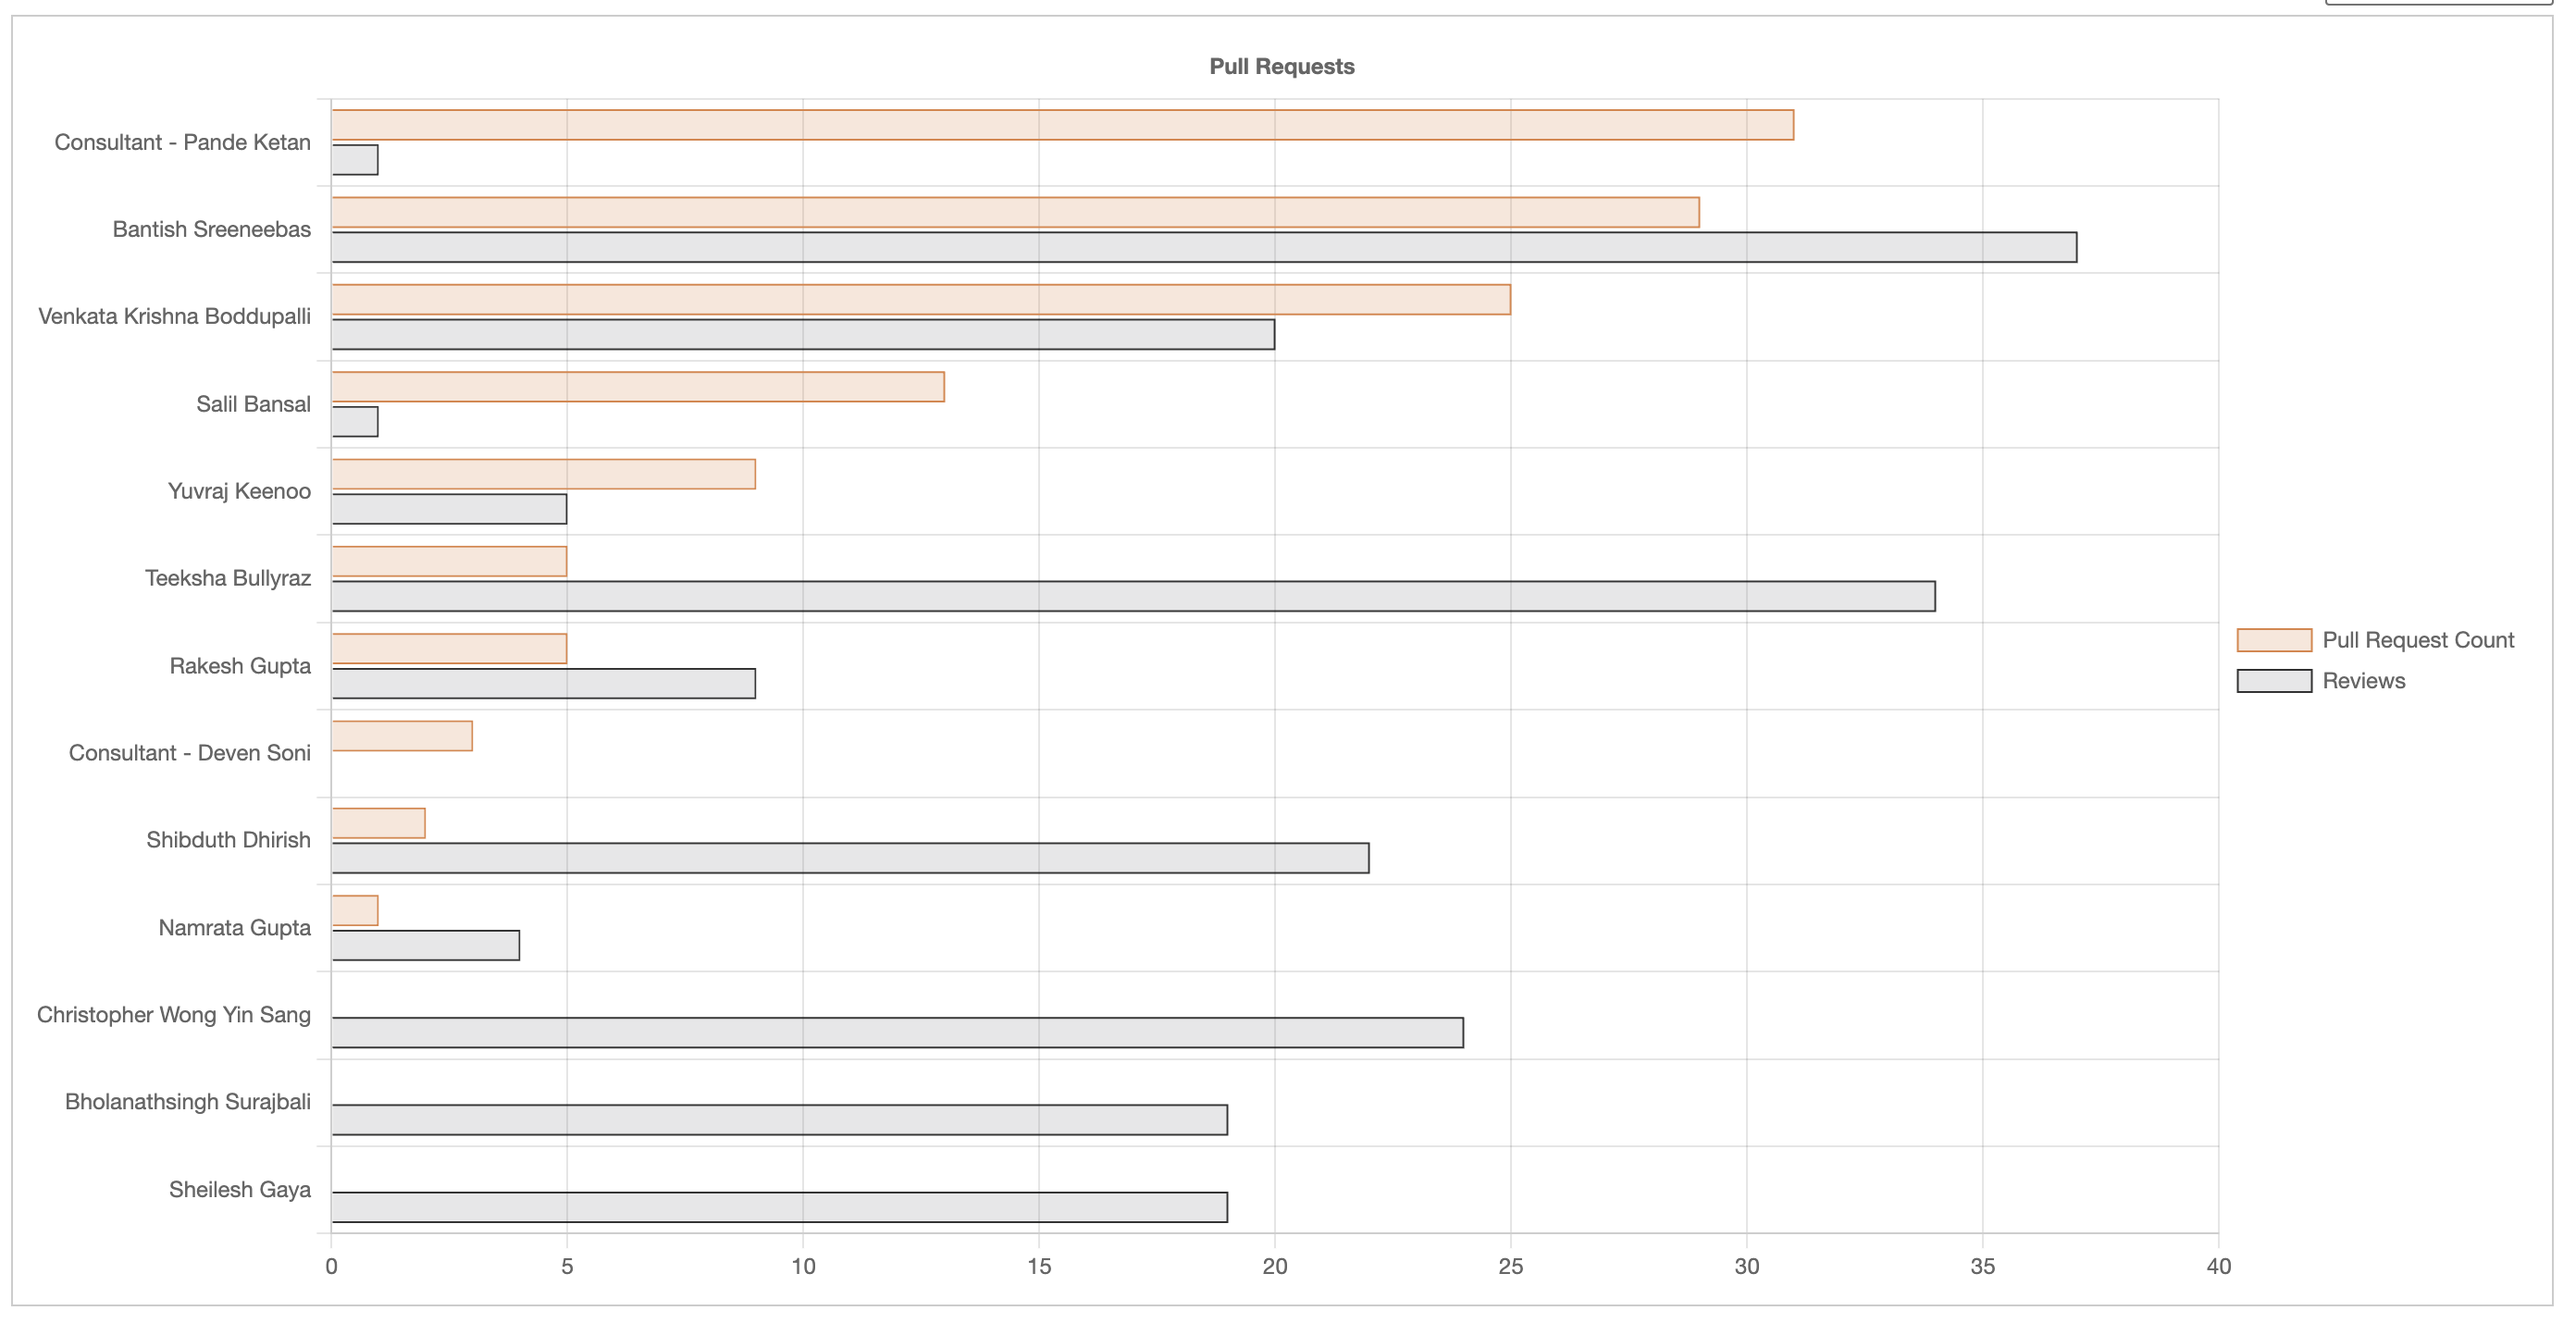
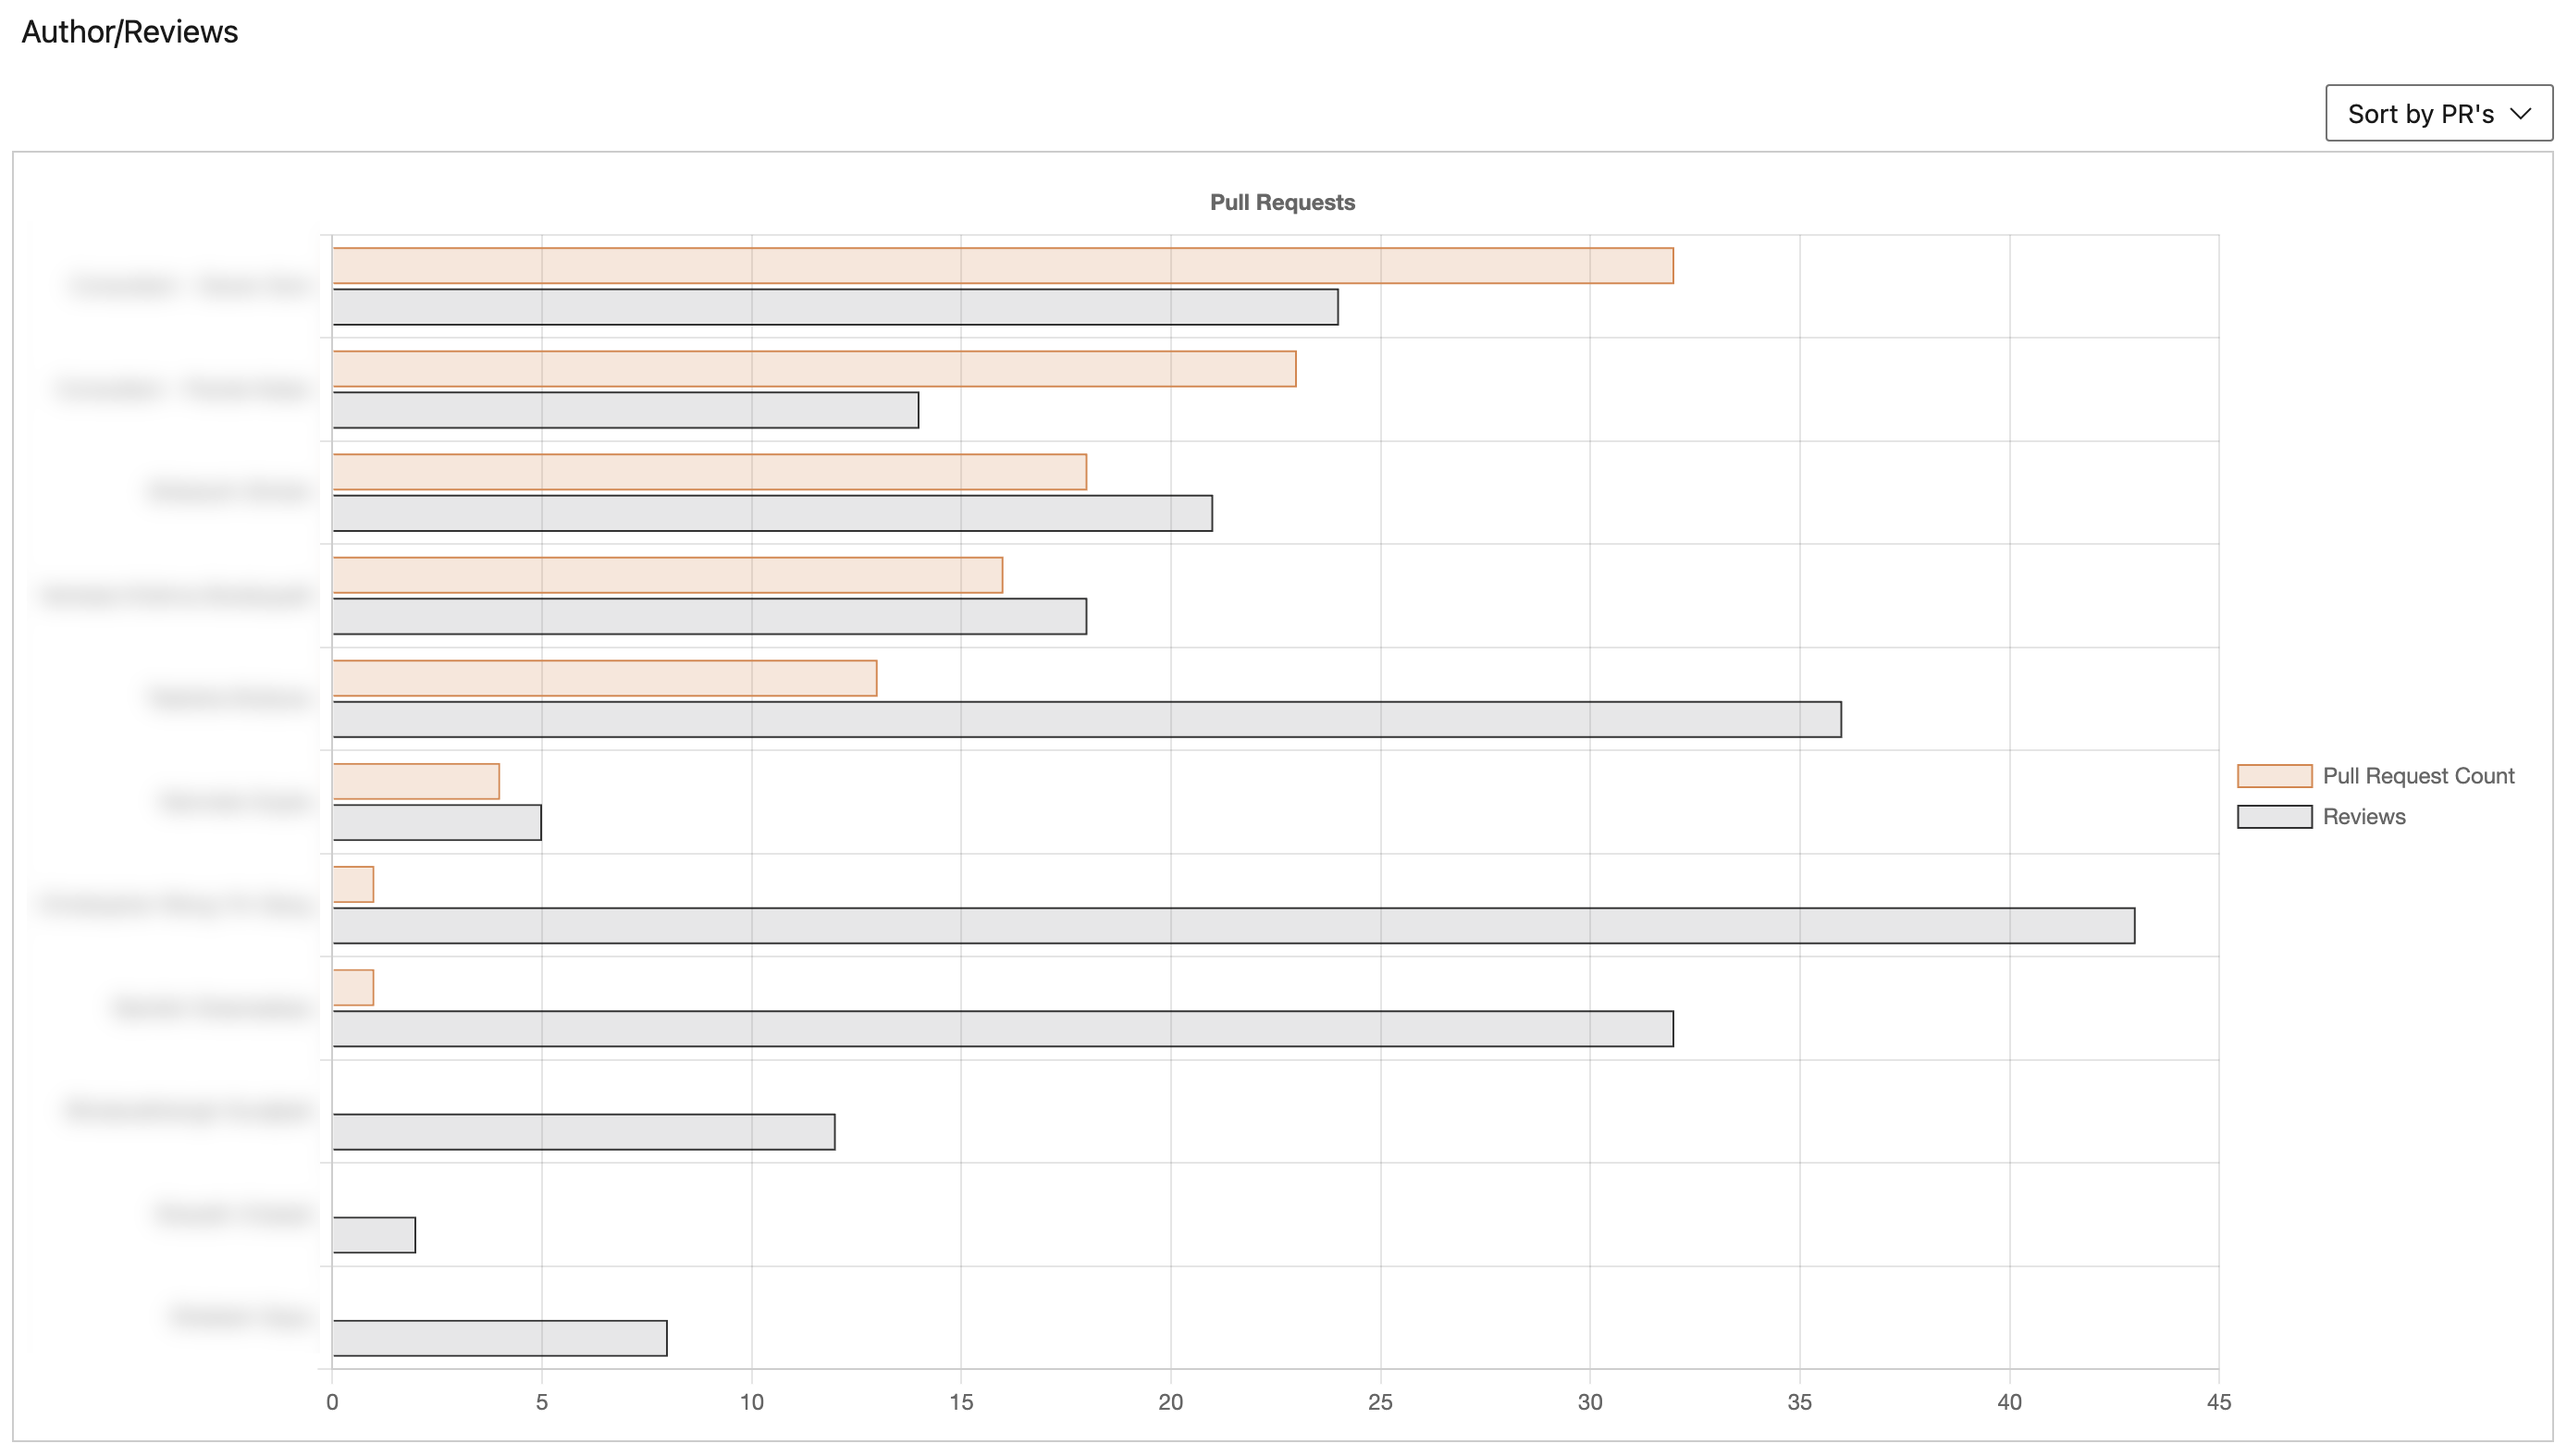
PR stats

diff --git a/source/_drafts/pr-analysis.md b/source/_drafts/pr-analysis.md
@@ -1,6 +1,13 @@
 ---
 title: Optimizing Pull Request Effectiveness- A Metrics-Driven Approach
 tags:
+- metrics
+- devops
+category: Software Engineering
+ogimage: pr3.png
+date: 2022-05-01
+excerpt:
+    A discussion on how to evaluate the effectiveness of your Pull Request process using simple metrics.
 ---
 
 > Disclaimer: In this post I will be talking about metrics related to the Pull Request process. These metrics cannot, and should never, be used to infer anything about the quality of the underlying code or the author. Furthermore teams should avoid setting targets against any of these metrics. <a href="https://en.wikipedia.org/wiki/Goodhart%27s_law">Doing so would distort any meaning or value that could be inferred from them</a>.
@@ -8,13 +15,13 @@ tags:
 # Pull Requests
 Pull Requests are used in some teams to control the flow of code from one branch to another. Typically a developer will complete a piece of work on one branch and then create a Pull Request to merge this work into a branch which contains the shared work of the team. At this point automated checks and tests can be run and the code is reviewed by one or more members of the team. Once everyone is satisfied the code is merged.
 
-Pull Requests help to enforce the team's standards and identify issues within the code. Having multiple team members review the changes aids with collaboration and knowledge sharing. There are some short comings however. Pull Requests are a bottleneck. The author of the Pull Request needs to wait until one or more reviewers are available to have the code merged. This imposes a 'speed limit' on the team as a whole as changes cannot be released faster than the time it takes to complete the Pull Request process.
+Pull Requests help to enforce the team's standards and identify issues within the code. Having multiple team members review the changes aids with collaboration and knowledge sharing. The main drawback though is that Pull Requests are a bottleneck. The author of the Pull Request needs to wait until one or more reviewers are available to have the code merged. This imposes a 'speed limit' on the team as a whole as changes cannot be released faster than the time it takes to complete the Pull Request process. If you combine this with poorly defined standards or an unclear review process the impact can be significant.
 
-Given these issues it is crucial that teams employing Pull Requests are receiving the maximum value from the practice and minimise the associated context-switching and delays. In the following sections, we'll explore key metrics that can provide teams with actionable insights to enhance their Pull Request process, ensuring efficient collaboration and timely code integration.
+Given the potential impact it is crucial that teams employing Pull Requests are receiving the maximum value from the practice and minimise the associated context-switching and delays. In the following sections, we'll explore key metrics that can provide teams with actionable insights to enhance their Pull Request process, ensuring efficient collaboration and timely code integration.
 
 # Evaluating Pull Request Effectiveness
 
-We propose 4 simple metrics as a starting point for evaluating Pull Request Effectiveness:
+Let's propose 4 simple metrics as a starting point for evaluating Pull Request Effectiveness:
 
 1. Overall Duration:
 Measure the time it takes for a PR to move from creation to merging. Short durations indicate swift code integration, while extended periods may highlight coordination challenges. Addressing these coordination issues can significantly enhance the team's efficiency. Also keep in mind that faster integration can also be a sign of rubber-stamping where the PR is accepted and merged without anyone really evaluating it.
@@ -23,7 +30,7 @@ Measure the time it takes for a PR to move from creation to merging. Short durat
 Assess the number of reviewers assigned to each PR. A diverse set of reviewers contributes to improved code quality and knowledge sharing. Identify scenarios where having too few or too many reviewers could be indicative of potential issues. It's also important to consider who is performing the reviews. Is it always the same cohort? Are there people who never contribute to the reviews?
 
 3. Commits per PR:
-Analyze the number of commits in each PR and explore the correlation with the complexity of code changes. Smaller, more frequent commits often lead to more manageable PRs, facilitating a smoother review process. There is an point of diminishing returns with regards to code review effectiveness. A [2006 Study](https://static0.smartbear.co/support/media/resources/cc/book/code-review-cisco-case-study.pdf) showed that code review effectiveness dropped sharply after 200 lines of code. Consequently a Pull Request with a large number of commits covering hundreds of lines of code will take a long time to review thoroughly or, more likely, receive a less than thorough review.
+Analyze the number of commits in each PR and explore the correlation with the complexity of code changes. Smaller, more frequent commits often lead to more manageable PRs, facilitating a smoother review process. There is an point of diminishing returns with regards to code review effectiveness. A [2006 Study](https://static0.smartbear.co/support/media/resources/cc/book/code-review-cisco-case-study.pdf) showed that code review effectiveness dropped sharply after just 200 lines of code. Consequently, a Pull Request with a large number of commits covering hundreds of lines of code will take a long time to review thoroughly or, more likely, receive a less-than-thorough review.
 
 4. Iterations per PR:
 Examine the number of iterations a PR undergoes. Multiple iterations can indicate a healthy feedback loop, fostering continuous improvement. Excessive iterations, on the other hand, may suggest communication challenges or unclear coding standards.
@@ -32,7 +39,7 @@ It's clear from the above that you need to look at these 4 metrics holistically.
 
 # Applying the metrics
 
-Let's take a look at how these metrics could play out in reality by showing how they could highlight common Pull Request anti-patterns.
+There are a number of common anti-patterns associated with Pull Requests:
  - Rubber-Stamping: PRs routinely accepted without proper consideration     
  - Lone Ranger Syndrome: Single developer submits PRs without seeking collaboration   
  - Long Review Queues:   PRs spend extended time in the review queue  
@@ -40,19 +47,24 @@ Let's take a look at how these metrics could play out in reality by showing how 
  - Inconsistent Coding Standards: Frequent violations of coding standards within PRs   
  - Unacknowledged Feedback: Developers submit PRs without addressing reviewer feedback
 
+ In the absence of metrics these can be tricky to spot unless you are actively monitoring each Pull Request. Teams often drift into these patterns over time so they may not even be aware that they are happening. Using the metrics though can quickly highlight potential issues. Each anti-pattern will show up in the metrics as follows:
+
 | Anti-Pattern               | Duration           | Commit Count       | Iteration Count    | Reviewer Count     |
 |----------------------------|--------------------|--------------------|--------------------|---------------------|
-| Rubber-Stamping            | Low                | Low                | Low                | Low                |
+| Rubber-Stamping            | Low                | Varies                | Low                | Low                |
 | Lone Ranger Syndrome       | Short to Moderate   | Low                | Low                | Low                |
 | Long Review Queues         | Prolonged          | Varies             | Varies             | Low                |
 | Excessive Changes          | Varies             | High               | Varies             | Low                |
 | Inconsistent Coding Standards | Varies             | Varies             | High               | Varies             |
 | Unacknowledged Feedback     | Varies             | Low                | Low                | Varies             |
 
+Once you have identified something that you would want to focus on you can use the metrics to evaluate the impact of any changes you make to your process.
 
 # Avoiding the Pitfalls
+These metrics have been useful in identifying process bottlenecks in teams but they can cause real damage is misused. Here are some tips to get the most value of of them.
+
 1. Quantification, Not Targeting:
-These metrics should not be treated as rigid targets. Instead, they serve as quantifiable indicators to identify areas for improvement. Teams should focus on continuous enhancement rather than striving for specific numerical goals.
+These metrics should not be treated as rigid targets. Instead, they serve as quantifiable indicators to identify areas for improvement. Teams should focus on continuous improvement rather than striving for specific numerical goals.
 
 2. Context Matters:
 Acknowledge that the effectiveness of PRs varies based on project size, team dynamics, and the nature of the codebase. Encourage teams to consider these contextual factors when interpreting and acting upon the metrics.
@@ -61,16 +73,26 @@ Acknowledge that the effectiveness of PRs varies based on project size, team dyn
 Provide practical examples of how teams have successfully improved their PR process based on these metrics. Highlight strategies such as streamlined coordination, diversified reviewer assignments, and effective feedback mechanisms.
 
 # Case Study
-Here's an example from a fictional team.
-
+Let's look at a practical example.
 
 <img src="pr1.png"/>
 
+The first thing to notice here is the Duration - on average it's taking 33 Hours to close a Pull Request. This means that If I start work on a new feature on Monday morning and submit the Pull Request later that day I would only get feedback at best Friday or Monday! If I continue with new features in the meantime I would be heading for significant context switching the following week as all my PR's reviews start to come back.
+
+The next thing to check would be the number of Iterations. The figure of 1 indicates that on-average Pull Requests are accepted with no revisions. This could indicate a mature and stable team but could also indicate a lack of rigor in the review process. If you combine this with the 33 Hour wait time what we are seeing is an enforced delay with very little chance of valuable feedback.
+
 <img src="pr2.png"/>
 
-<img src="pr3.png"/>
+In terms of the ratio of Author to Reviewer the entire team participates in the review process. There are some people though who spend more time reviewing than authoring. In some cases people are exclusively Reviewers. As to what this indicates would be dependent on your team. You have to ask yourself, "Does it make sense that this person is not creating any Pull Requests?". Practices such as Pairing or reviews by Architects or Engineering Leads may distort the picture so you must look at this holistically. 
 
+<img src="pr3.png" width="500px"/>
+
+In this view you can see the impact of the long review process. Note how the majority of the PR's are closed on Monday or Friday. In fact what could be happening here is that the team are optimising to reduce context-switching by saving up reviews for these days.
 
 # Tooling
+Collecting these stats is not trivial - especially if you work with multiple teams and repos. I've created an extension for Azure DevOps to automate the process. You can get the extension [here](https://marketplace.visualstudio.com/items?itemName=CodeMk.codemk-pullrequest).
 
+I'll also be releasing a stand-alone version for GitHub in there's enough interest.
+
+<img src="pr4.png"/>
 
